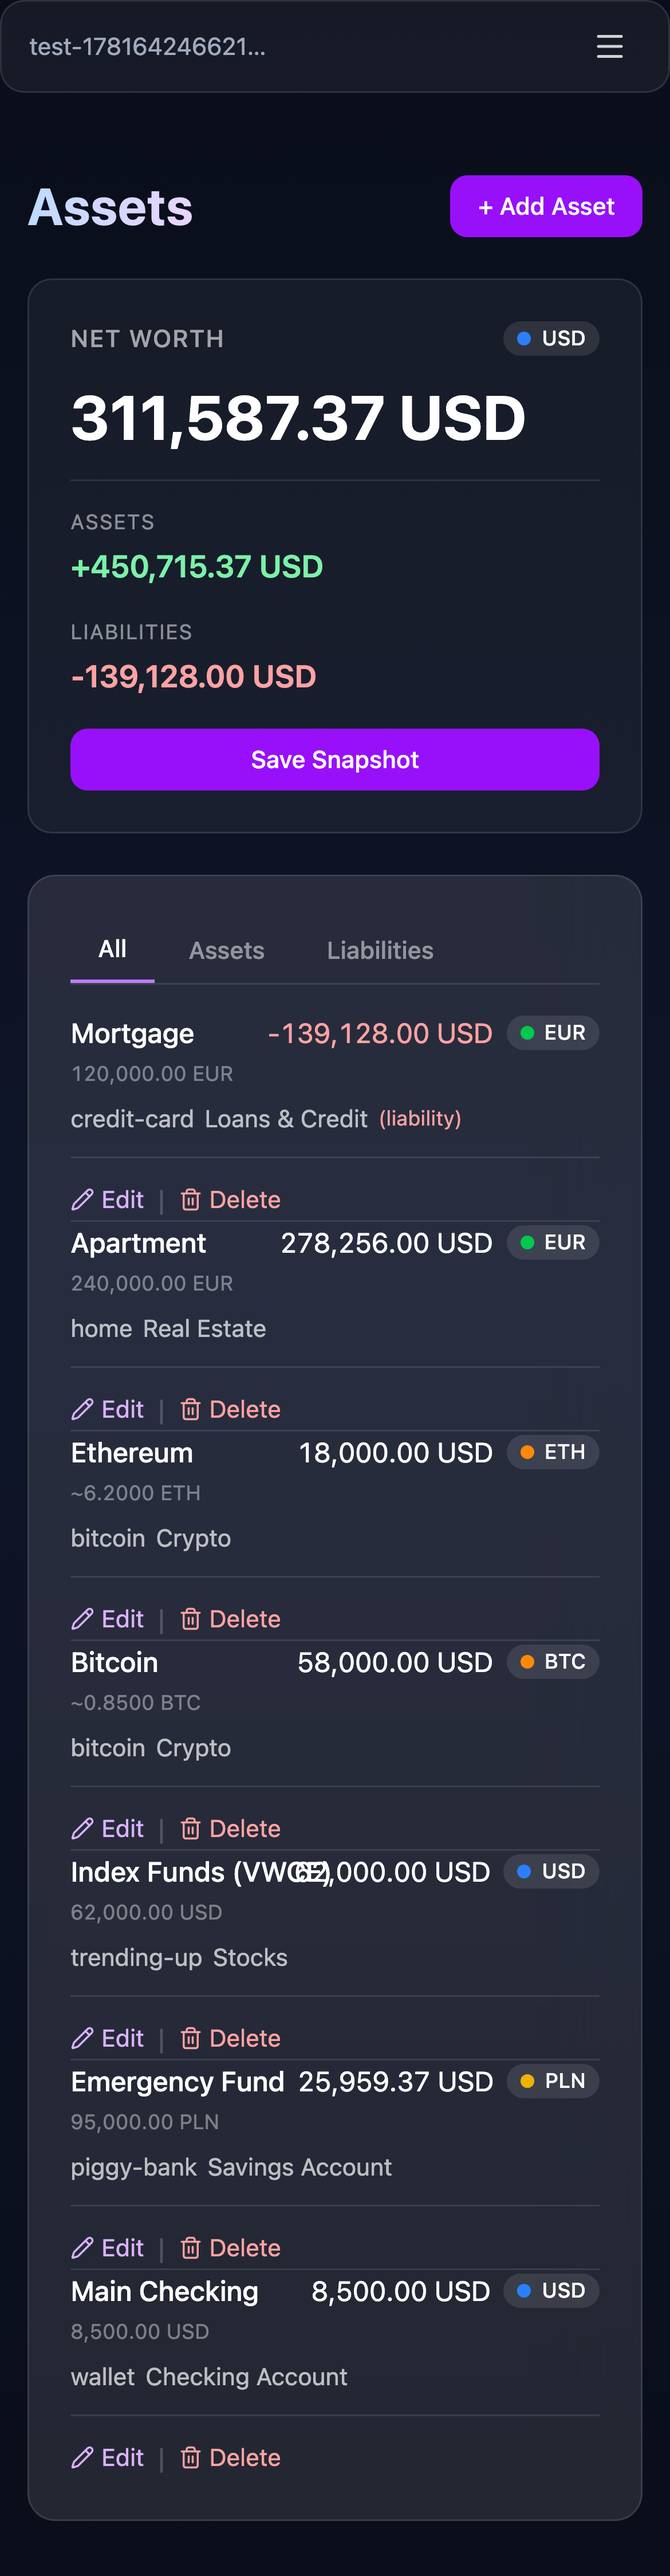
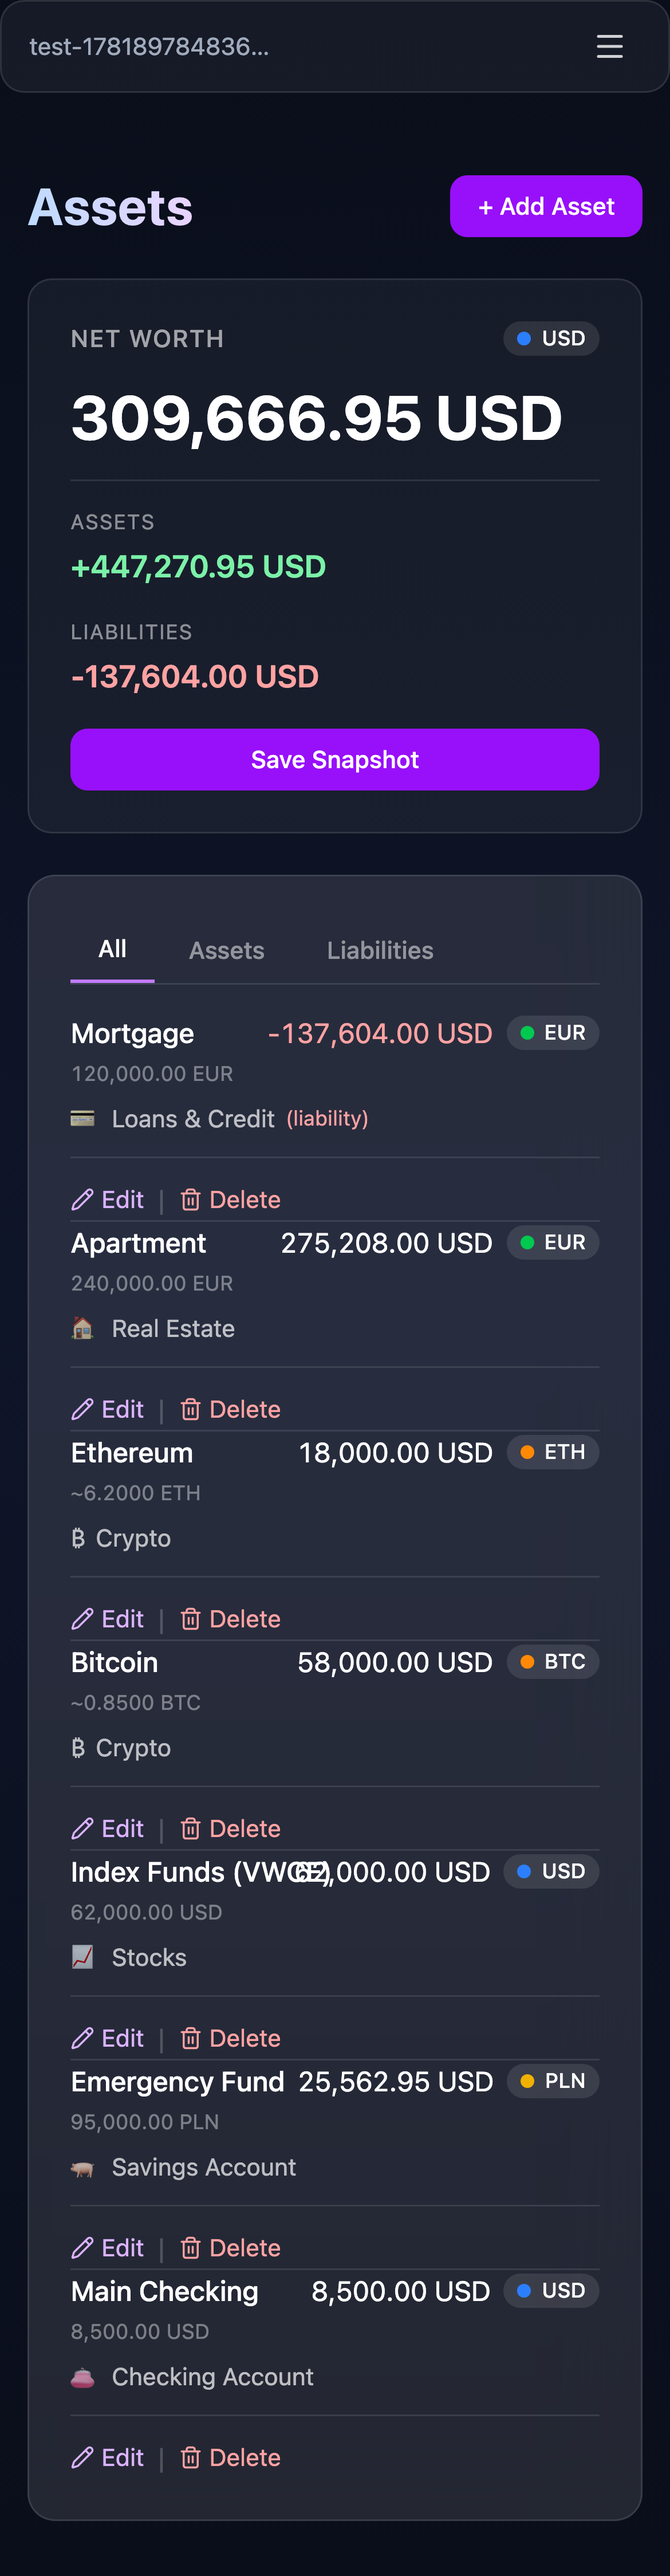
docs(readme): cover top movers + asset trends; regenerate screenshots
- README: add Top Movers (S-11) and Asset Trends (S-12) features; drop stale
  monthly auto-save claim (dropped 2026-06-16, snapshots are manual); note
  per-asset breakdown captured per snapshot; add focused asset-trends.png
- capture spec: seed show_on_chart opt-ins + backdated per-asset snapshot_items
  so the trends chart draws real lines and Top Movers has a baseline; reveal the
  Asset Trends card before the dashboard (dark/light/mobile) shots; add a focused
  asset-trends.png capture
- regenerate all screenshots (dark primary, light dashboard/FIRE, mobile)

Refs: #33

diff --git a/e2e/capture-screenshots.spec.ts b/e2e/capture-screenshots.spec.ts
@@ -27,6 +27,14 @@ const SHOTS_DIR = join(process.cwd(), "docs", "screenshots");
 
 // Realistic multi-currency portfolio. category_id values are the stable seed
 // ids from supabase/seed.sql. Mixing USD/EUR/PLN showcases auto-conversion.
+//
+// `show_on_chart` opts an asset into the Asset Trends chart (S-12). `trend` is a
+// per-snapshot multiplier (one per SNAPSHOT_NET_WORTHS entry) applied to `amount`
+// to backdate each asset's snapshot_items value, so trend lines actually move and
+// Top Movers (S-11) has a real baseline. Last multiplier < 1 (or > 1 for the
+// liability) makes the live value differ from the last snapshot → Top Movers shows
+// movement. The opted-in set is a deliberate mix: a steady grower, a volatile coin,
+// a large stable asset, and a paid-down liability (rises in indexed mode).
 const ASSETS: {
   name: string;
   amount: number;
@@ -34,14 +42,66 @@ const ASSETS: {
   category_id: string;
   crypto_symbol?: string;
   quantity?: number;
+  show_on_chart?: boolean;
+  trend: number[];
 }[] = [
-  { name: "Main Checking", amount: 8500, currency: "USD", category_id: "checking_account" },
-  { name: "Emergency Fund", amount: 95000, currency: "PLN", category_id: "savings_account" },
-  { name: "Index Funds (VWCE)", amount: 62000, currency: "USD", category_id: "stocks" },
-  { name: "Bitcoin", amount: 58000, currency: "USD", category_id: "crypto", crypto_symbol: "BTC", quantity: 0.85 },
-  { name: "Ethereum", amount: 18000, currency: "USD", category_id: "crypto", crypto_symbol: "ETH", quantity: 6.2 },
-  { name: "Apartment", amount: 240000, currency: "EUR", category_id: "real_estate" },
-  { name: "Mortgage", amount: 120000, currency: "EUR", category_id: "loans_credit" },
+  {
+    name: "Main Checking",
+    amount: 8500,
+    currency: "USD",
+    category_id: "checking_account",
+    trend: [0.9, 0.95, 0.88, 0.97, 0.99],
+  },
+  {
+    name: "Emergency Fund",
+    amount: 95000,
+    currency: "PLN",
+    category_id: "savings_account",
+    trend: [0.85, 0.9, 0.93, 0.96, 0.98],
+  },
+  {
+    name: "Index Funds (VWCE)",
+    amount: 62000,
+    currency: "USD",
+    category_id: "stocks",
+    show_on_chart: true,
+    trend: [0.78, 0.85, 0.89, 0.93, 0.96],
+  },
+  {
+    name: "Bitcoin",
+    amount: 58000,
+    currency: "USD",
+    category_id: "crypto",
+    crypto_symbol: "BTC",
+    quantity: 0.85,
+    show_on_chart: true,
+    trend: [0.65, 0.92, 0.8, 1.04, 0.95],
+  },
+  {
+    name: "Ethereum",
+    amount: 18000,
+    currency: "USD",
+    category_id: "crypto",
+    crypto_symbol: "ETH",
+    quantity: 6.2,
+    trend: [0.6, 0.88, 0.78, 1.02, 0.94],
+  },
+  {
+    name: "Apartment",
+    amount: 240000,
+    currency: "EUR",
+    category_id: "real_estate",
+    show_on_chart: true,
+    trend: [0.93, 0.94, 0.95, 0.96, 0.98],
+  },
+  {
+    name: "Mortgage",
+    amount: 120000,
+    currency: "EUR",
+    category_id: "loans_credit",
+    show_on_chart: true,
+    trend: [1.2, 1.15, 1.1, 1.05, 1.03],
+  },
 ];
 
 // FIRE inputs (fractions for rates, per the user-preferences contract).
@@ -70,6 +130,7 @@ async function seedAssets(request: import("@playwright/test").APIRequestContext)
     form.set("category_id", a.category_id);
     if (a.crypto_symbol) form.set("crypto_symbol", a.crypto_symbol);
     if (a.quantity !== undefined) form.set("quantity", String(a.quantity));
+    if (a.show_on_chart) form.set("show_on_chart", "true");
 
     const res = await request.post("/api/assets", {
       headers: { "Content-Type": "application/x-www-form-urlencoded" },
@@ -113,8 +174,38 @@ async function seedSnapshots(email: string, password: string): Promise<void> {
     created_at: new Date(Date.UTC(year, i, 1, i === 0 ? 0 : 12, 0, 0)).toISOString(),
   }));
 
-  const { error } = await supabase.from("snapshots").insert(rows);
+  const { data: inserted, error } = await supabase
+    .from("snapshots")
+    .insert(rows)
+    .select("id, created_at")
+    .overrideTypes<{ id: string; created_at: string }[], { merge: false }>();
   if (error) throw new Error(`Seed snapshots failed: ${error.message}`);
+
+  // Backdate per-asset snapshot_items so the Asset Trends chart (S-12) draws real
+  // lines and Top Movers (S-11) has a baseline. Snapshots are ordered by created_at
+  // ascending; the i-th snapshot uses each asset's i-th trend multiplier.
+  const ordered = [...inserted].sort((a, b) => a.created_at.localeCompare(b.created_at));
+  if (ordered.length === 0) throw new Error("Seed snapshots returned no rows");
+  const items = ordered.flatMap((snap, i) =>
+    ASSETS.map((a) => {
+      const amount = Math.round(a.amount * a.trend[i]);
+      return {
+        snapshot_id: snap.id,
+        name: a.name,
+        category_id: a.category_id,
+        original_amount: amount,
+        original_currency: a.currency,
+        // converted_amount is required + NOT NULL but unused by the trends chart and
+        // Top Movers (both recompute from original_* at today's rates); a nominal
+        // value keeps the row valid without pretending to be an exact conversion.
+        converted_amount: amount,
+        display_currency: "USD",
+      };
+    }),
+  );
+
+  const { error: itemsError } = await supabase.from("snapshot_items").insert(items);
+  if (itemsError) throw new Error(`Seed snapshot_items failed: ${itemsError.message}`);
 }
 
 // Recharts draws its line with a ~1.5s reveal animation. This is a render-settle
@@ -129,6 +220,20 @@ async function settleChart(page: import("@playwright/test").Page, heading: RegEx
   // which (Line defaults to isAnimationActive:"auto") draws the line statically —
   // so we just wait for the curve to be present.
   await page.locator(".recharts-line-curve").first().waitFor({ state: "visible" });
+}
+
+// The Asset Trends card (S-12) is collapsed by default; click its master toggle
+// to reveal the chart, then wait for the lines to render. Returns the card
+// locator so callers can capture a focused shot. Ephemeral state — re-reveal
+// after every navigation.
+async function revealAssetTrends(page: import("@playwright/test").Page) {
+  const toggle = page.getByRole("button", { name: "Show asset trends" });
+  await toggle.waitFor({ state: "visible" });
+  await toggle.click();
+  const card = page.locator("div.rounded-2xl").filter({ has: page.getByRole("heading", { name: "Asset Trends" }) });
+  await card.locator(".recharts-line-curve").first().waitFor({ state: "visible" });
+  await card.scrollIntoViewIfNeeded();
+  return card;
 }
 
 test("capture README screenshots", async ({ page, browser }) => {
@@ -165,6 +270,8 @@ test("capture README screenshots", async ({ page, browser }) => {
 
   await page.goto("/dashboard");
   await settleChart(page, /net worth trend/i);
+  const trendsCard = await revealAssetTrends(page);
+  await trendsCard.screenshot({ path: join(SHOTS_DIR, "asset-trends.png") });
   await page.screenshot({ path: join(SHOTS_DIR, "dashboard.png"), fullPage: true });
 
   await page.goto("/dashboard/assets");
@@ -181,6 +288,7 @@ test("capture README screenshots", async ({ page, browser }) => {
 
   await page.goto("/dashboard");
   await settleChart(page, /net worth trend/i);
+  await revealAssetTrends(page);
   await page.screenshot({ path: join(SHOTS_DIR, "dashboard-light.png"), fullPage: true });
 
   await page.goto("/dashboard/fire");
@@ -208,6 +316,7 @@ test("capture README screenshots", async ({ page, browser }) => {
 
   await mobilePage.goto("/dashboard");
   await settleChart(mobilePage, /net worth trend/i);
+  await revealAssetTrends(mobilePage);
   await mobilePage.screenshot({ path: join(SHOTS_DIR, "mobile-dashboard.png"), fullPage: true });
 
   await mobilePage.goto("/dashboard/assets");

diff --git a/README.md b/README.md
@@ -25,7 +25,7 @@ Tracking net worth in a spreadsheet works until it doesn't: formulas drift, curr
 - **Privacy-first** — manual entry only. No bank links, no aggregators, no third-party data sharing. Every row is yours and isolated by row-level security.
 - **Multi-currency, automatically** — hold assets in PLN, USD, and EUR; BitWorth converts everything to your display currency using live rates (cached, with graceful fallback).
 - **One number, with context** — a single net worth figure plus month-over-month and year-to-date deltas.
-- **History you can see** — one-click (and automatic monthly) snapshots feed a trend chart.
+- **History you can see** — one-click snapshots feed an overall trend chart, top movers, and per-asset trend lines.
 - **Plan ahead** — a built-in FIRE calculator projects when you can retire.
 
 ![Landing page](docs/screenshots/landing.png)
@@ -34,8 +34,10 @@ Tracking net worth in a spreadsheet works until it doesn't: formulas drift, curr
 
 - **Asset & liability tracking** — full CRUD across 13 categories (checking, savings, business, cash, stocks, funds, bonds, crypto, precious metals, real estate, vehicles, loans, P2P). Liabilities subtract from net worth.
 - **Net worth calculation** — assets minus liabilities, every currency converted to your display currency, with "vs last month" and "vs Jan 1st" deltas.
-- **Snapshots** — save your net worth on demand; the app also auto-saves once per calendar month so your history fills in by itself.
+- **Snapshots** — save your net worth on demand. Each snapshot also captures a per-asset breakdown, which powers top movers and per-asset trends.
 - **Trend chart** — a Recharts line chart over all snapshots, with a "Start" baseline reference line.
+- **Top movers** — see which assets rose and fell the most since your last snapshot (top gainers + losers, with amount and percentage); a friendly placeholder prompts the first snapshot when there's nothing to compare against.
+- **Asset trends** — opt any asset into a dedicated trend chart and watch each one move across your snapshot history. Toggle between indexed (%) and absolute scales; lines are color-distinct, gaps stay honest (no bridging), and liabilities read in their natural direction (debt paydown trends up).
 - **Live crypto prices** — adding or editing a crypto holding fetches the current market price from CoinGecko (cached, with manual-entry fallback). Top coins are mapped out of the box (BTC, ETH, SOL, and more).
 - **FIRE calculator** — enter your income, expenses, return, inflation, and safe withdrawal rate to compute your FIRE number, years to FI, estimated retirement age, plus Coast and Barista FIRE — with a year-by-year projection chart in today's money.
 - **Settings** — choose your display currency (PLN/USD/EUR) and theme (light/dark/system), persisted per user.
@@ -44,6 +46,8 @@ Tracking net worth in a spreadsheet works until it doesn't: formulas drift, curr
 | Assets                                                                     | FIRE calculator                                                            |
 | -------------------------------------------------------------------------- | -------------------------------------------------------------------------- |
 | [![Assets list](docs/screenshots/assets.png)](docs/screenshots/assets.png) | [![FIRE calculator](docs/screenshots/fire.png)](docs/screenshots/fire.png) |
+
+![Asset Trends — per-asset trend lines over snapshot history, indexed mode](docs/screenshots/asset-trends.png)
 
 > Screenshots show the default dark theme. BitWorth also ships a light theme (and a "system" option) — here's the dashboard and FIRE calculator in light:
 >
